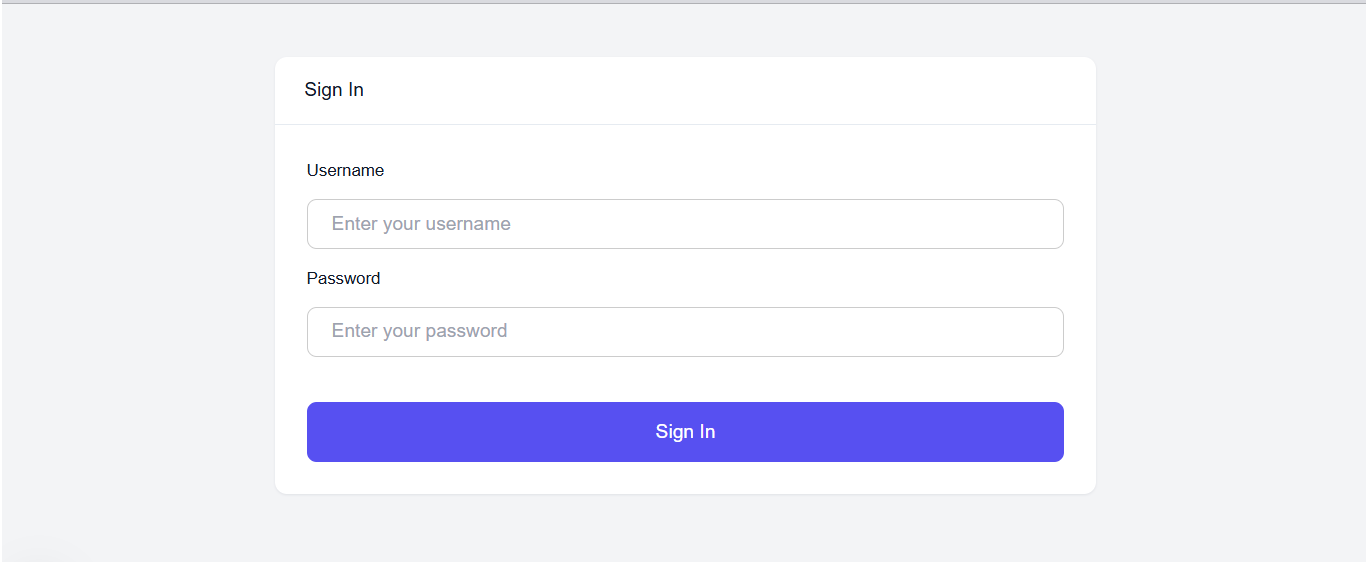
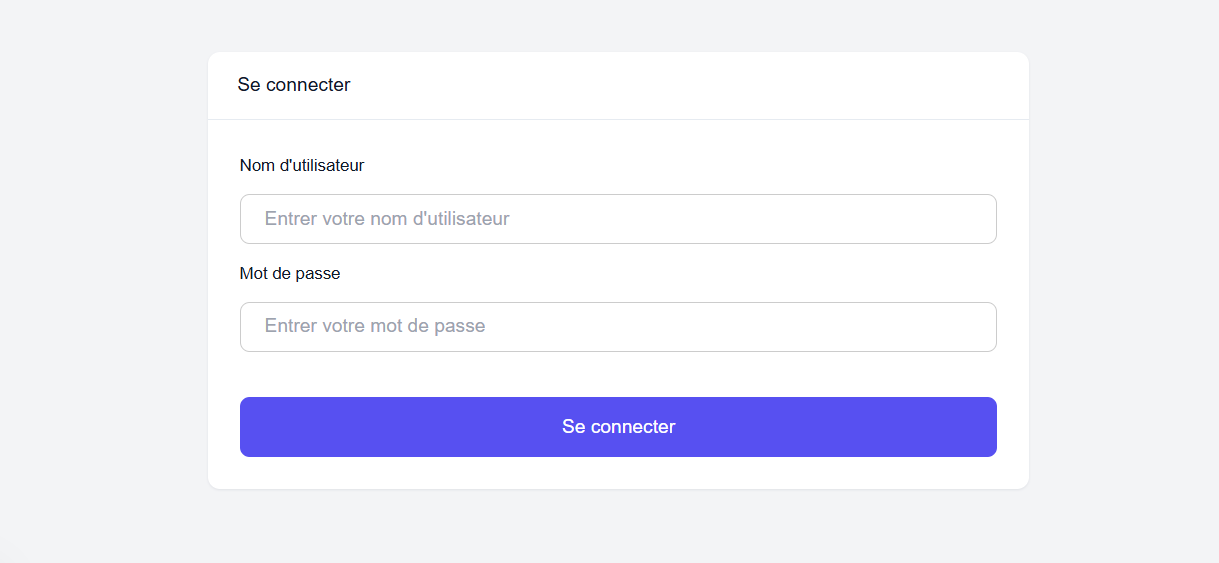
Changement de screenshot et amélioration de l'initialisation de la base de donnée;

diff --git a/nodejs-express-mysql/server.ts b/nodejs-express-mysql/server.ts
@@ -4,7 +4,6 @@ dotenv.config();
 import express from "express";
 import cors from "cors";
 import sql = require("./app/models/db");
-import mysql, { RowDataPacket } from "mysql2"; // Importation de mysql2
 import multer from "multer";
 import { validationResult } from "express-validator";
 import bcrypt from "bcrypt";
@@ -55,12 +54,6 @@ const SALT_ROUNDS = 10;
 app.use(cors(corsOptions));
 app.use(express.json());
 app.use(express.urlencoded({ extended: true }));
-
-const connection = mysql.createConnection({
-    host: 'localhost',
-    user: process.env.DB_USER,        // Utilisateur MySQL
-    password: process.env.DB_PASSWORD // Mot de passe de l'utilisateur
-});
   
 // Vérifier si la base de données existe et la créer si nécessaire
 const checkAndCreateDatabase = () => {
@@ -76,25 +69,24 @@ const checkAndCreateDatabase = () => {
   
       if (rows.length > 0) {
         console.log(`✅ La base de données "${databaseName}" existe déjà.`);
+        sql.useDatabase(databaseName,(err)=>{
+          if (err) {
+            console.log(`❌ Erreur lors de la connexion à la base de données "${databaseName}"`);
+            return;   
+          }
+          console.log(`✅ connexion à la de données ${databaseName} réussi.`);
+        })
+
       } else {
         console.log(`❌ La base de données "${databaseName}" n'existe pas.`);
         // Créer la base de données si elle n'existe pas
-        connection.query(`CREATE DATABASE ${databaseName}`, (err) => {
+        sql.query(`CREATE DATABASE ?`,[databaseName],(err) => {
           if (err) {
             console.error('❌ Erreur lors de la création de la base de données:', err);
             return;
           }
           console.log(`🛠 Base de données "${databaseName}" créée.`);
-          // Une fois la base de données créée, se reconnecter à la nouvelle base
-          connection.changeUser({ database: databaseName }, (err) => {
-            if (err) {
-              console.error('❌ Erreur lors de la reconnexion à la base de données:', err);
-            } else {
-              console.log(`✅ Connexion réussie à la base de données "${databaseName}".`);
-              // Importer le backup dans la base de données
-              importBackup();
-            }
-          });
+          importBackup();
         });
       }
     });
@@ -142,6 +134,10 @@ app.post(
     const userName = req.body.userName;
     const password = req.body.passWord;
     const privilege = req.body.privilege;
+
+    /**
+     * bcrypt est utilisé pour pouvoir hashé les mots de passe
+     */
     bcrypt.genSalt(SALT_ROUNDS, (err, salt) => {
         if (err) {
             console.log("error:", err);
